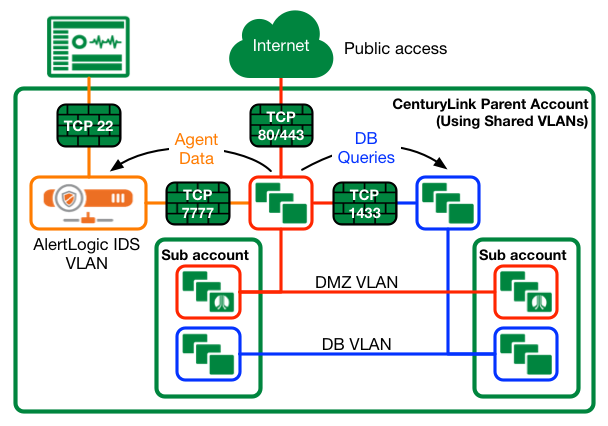
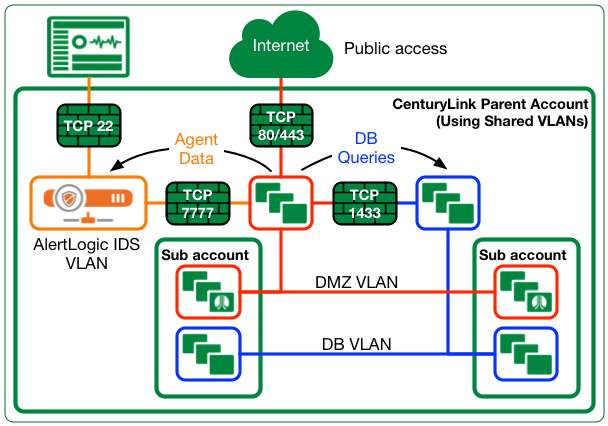
Added text and frame to images.

Changed region(s): [[0.0, 0.0, 1.0, 1.0]]

diff --git a/Security/security_with_CLC_and_alertlogic.md b/Security/security_with_CLC_and_alertlogic.md
@@ -35,16 +35,16 @@ Information about AlertLogic security products and services, additional referenc
 <br>
 
 AlertLogic's official documentation is available in their [Webhelp site](http://docs.alertlogic.com/).
-s
+
 #### Prerequisites.
 
 * A Centurylink Cloud account.
 * An AlertLogic account with activated *Threat Manager* services, *Log Manager* or both.
 * Understanding of CenturyLink Cloud sub-account hierarchies for multi-tenant environments.
 
-<BR>
 ### What do AlertLogic products do?
 
+AlertLogic's suite of products assist IT and security departments to detect, alert, store and correlate security related events occurring in an application and it's underlying infrastructure. Their detection capability is based on thousands of matching signatures to known events and AlertLogic's NOC continually adds signatures for new events as they are detected by hundreds of worldwide appliances or as issued by the security community.
 
 ### How does it work?
 
@@ -52,24 +52,45 @@ AlertLogic Threat manager and Log manager products work similarly within Century
 
 **Component**|**Purpose**
 -----------------|------------------------------
-**Virtual Appliance**|Services as a centralized point for collection of events (threats and logs) and for management of the environment. The appliance can also provide signature updates and perform internal vulnerability assessments.
+**Virtual Appliance**|Serves as a centralized collection point for security events reported by the protected hosts (threats and logs) and for management of the environment. The appliance can also provide signature updates and perform internal vulnerability assessments.
 **Host Agent**|An individual software agent installed in each protected host, able to scan network packets and report threats that match AlertLogic's signatures and also can watch host logs and report events back to the appliance.
 **AlertLogic Portal**|A centralized UI where a virtual appliance can report events to and where all collected security information is consolidated.
 
+
 <BR><HR>
-### 1. Planning a deployment.
 
-### 2. Deployment Scenarios
+### Deployment Scenarios
 
-#### a) Single tenant
+#### Single tenant
+
+**Situation:** A single application or platform that is self-contained and self sufficient, where all elements of the application are deployed in one account and no network connections to other accounts or sites exist.
 
 ![IDS single tenant](../images/alertlogic/tmgr_net.png)
 
-#### b) Multi-tenant
+##### Multi-tenant, shared VLANs
 
-![IDS multitenant](../images/alertlogic/subacct_shared.png)
+**Situation:** 
 
-### 3. Deploy
+**Pros**|**Cons**
+--------|----------
+Simpler network topology|Traffic across accounts is visible
+A single appliance may be used|The appliance may reach capacity.
+Least complexity of firewall rules|
+
+![IDS multitenant](../images/alertlogic/subacct_shared.png) 
+
+##### Multi-tenant, private VLANs using inter-account firewall rules
+
+**Situation:** 
+
+##### Hybrid: cloud / on-premise
+
+**Situation:** 
+
+<BR><HR>
+### Deployment settings
+
+
 
 <BR><HR>
 ### Resources
